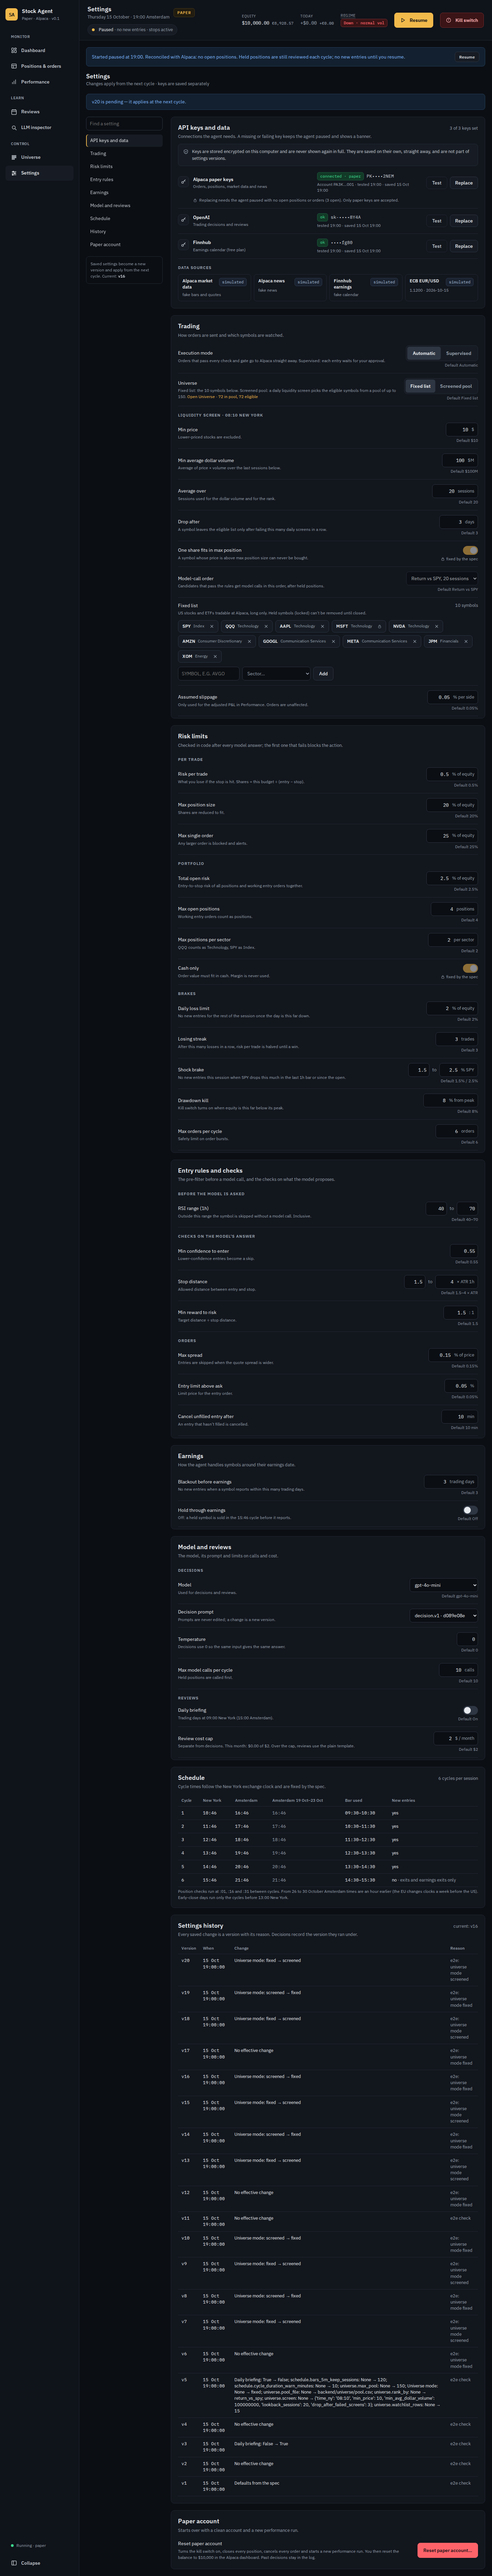
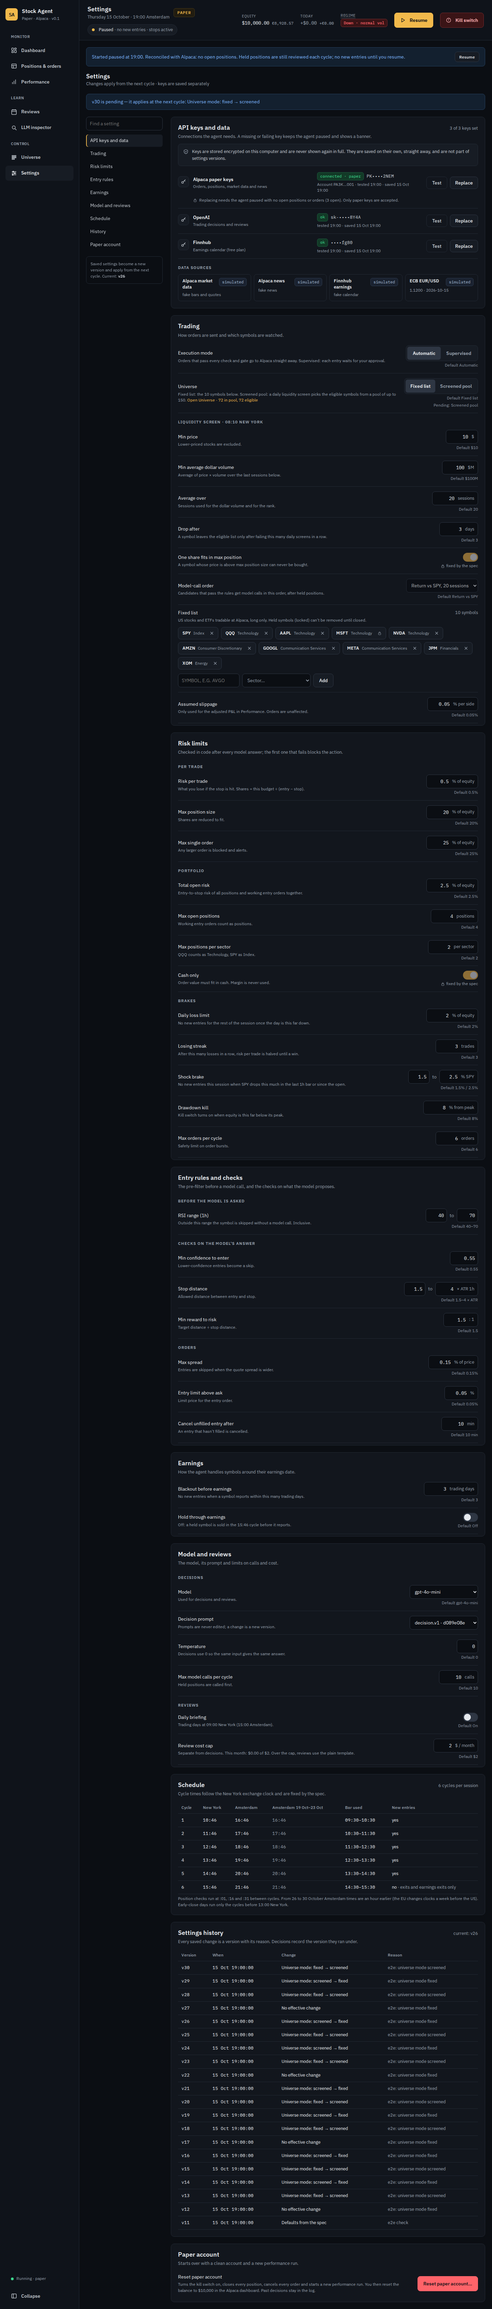
Mark saved-but-pending settings values per row
The Settings form correctly shows the active values — a save is a pending
version until the next cycle promotes it — but a pending change left the
field showing only the old value, so a saved "Screened pool" looked lost.
GET /api/settings now also returns `pending` (leaf path → pending value)
and `pending_change` (the version diff summary); each affected row gets a
"Pending: <value>" marker and the pending banner names the changes.

Generated with [Devin](https://devin.ai)

diff --git a/frontend/src/pages/Settings.tsx b/frontend/src/pages/Settings.tsx
@@ -26,7 +26,7 @@ import { Banner } from '../components/Banner';
 import { Button } from '../components/Button';
 import { ResetAccountDialog } from '../components/SettingsDialogs';
 import { displayDateTime, displayDayTime, displayTime } from '../format';
-import { diffMap, diffSettings } from './settingsDiff';
+import { diffMap, diffSettings, fmtPath } from './settingsDiff';
 import { validateForm } from './settingsValidation';
 
 // ---------------------------------------------------------------------------
@@ -314,6 +314,7 @@ function Row({
   error,
   locked,
   defaultText,
+  pendingText,
   onReset,
   children,
 }: {
@@ -325,6 +326,7 @@ function Row({
   error?: string;
   locked?: boolean;
   defaultText?: string;
+  pendingText?: string;
   onReset?: () => void;
   children: ReactNode;
 }) {
@@ -359,6 +361,14 @@ function Row({
           defaultText !== undefined && (
             <span style={{ fontSize: 'var(--sa-text-sm)', color: 'var(--sa-text-faint)' }}>Default {defaultText}</span>
           )
+        )}
+        {pendingText !== undefined && (
+          <span
+            title="Saved in the pending version — applies at the next cycle"
+            style={{ fontSize: 'var(--sa-text-sm)', color: 'var(--sa-text-faint)' }}
+          >
+            Pending: {pendingText}
+          </span>
         )}
       </div>
     </div>
@@ -817,6 +827,20 @@ export default function Settings() {
   useLiveUpdates(['header', 'universe'], refresh);
   useLiveUpdates(['settings', 'banners'], refreshKeys);
 
+  const pendingMap = data?.pending ?? {};
+  const pendingText = (path: string): string | undefined =>
+    path in pendingMap ? fmtPath(path, pendingMap[path]) : undefined;
+  const pendingJoined = (
+    paths: string[],
+    join: string,
+    fmt?: (value: unknown) => string,
+  ): string | undefined => {
+    const vals = paths
+      .filter((p) => p in pendingMap)
+      .map((p) => (fmt ? fmt(pendingMap[p]) : String(pendingMap[p])));
+    return vals.length ? vals.join(join) : undefined;
+  };
+
   const diffs = useMemo(
     () => (data && form ? diffSettings(data.settings, form) : []),
     [data, form],
@@ -1026,6 +1050,7 @@ export default function Settings() {
       changedFrom={changed[path] ? `${changed[path]}${suffix(path)}` : undefined}
       error={fieldErrors[path]}
       locked={props.locked}
+      pendingText={pendingText(path)}
       defaultText={props.defaultText ?? (path in DEFAULTS ? DEFAULTS[path] : undefined)}
       onReset={() => {
         const parts = path.split('.');
@@ -1053,7 +1078,10 @@ export default function Settings() {
       {errors.length > 0 && <Banner variant="negative">{errors.join(' ')}</Banner>}
       {notice && <Banner variant="info">{notice}</Banner>}
       {data.pending_version !== null && (
-        <Banner variant="info">v{data.pending_version} is pending — it applies at the next cycle.</Banner>
+        <Banner variant="info">
+          v{data.pending_version} is pending — it applies at the next cycle
+          {data.pending_change ? `: ${data.pending_change}` : '.'}
+        </Banner>
       )}
 
       {/* Phone width: the section list becomes a horizontal scroll row. */}
@@ -1157,6 +1185,7 @@ export default function Settings() {
               changed={'execution.mode' in changed}
               changedFrom={changed['execution.mode'] ? String(changed['execution.mode']) : undefined}
               defaultText={DEFAULTS['execution.mode']}
+              pendingText={pendingText('execution.mode')}
               onReset={() => reset('execution', 'mode')}
             >
               <div role="radiogroup" aria-label="Execution mode" style={{ display: 'inline-flex', padding: 3, background: 'var(--sa-raised)', border: '1px solid var(--sa-border)', borderRadius: 'var(--sa-radius-md)' }}>
@@ -1203,6 +1232,7 @@ export default function Settings() {
               changed={'universe.mode' in changed}
               changedFrom={changed['universe.mode'] ? String(changed['universe.mode']) : undefined}
               defaultText={DEFAULTS['universe.mode']}
+              pendingText={pendingText('universe.mode')}
               onReset={() => reset('universe', 'mode')}
             >
               <div role="radiogroup" aria-label="Universe" style={{ display: 'inline-flex', padding: 3, background: 'var(--sa-raised)', border: '1px solid var(--sa-border)', borderRadius: 'var(--sa-radius-md)' }}>
@@ -1337,6 +1367,11 @@ export default function Settings() {
                 </span>
                 <span style={{ display: 'flex', flexDirection: 'column', alignItems: 'flex-end', gap: 4 }}>
                   <span style={{ fontSize: 'var(--sa-text-md)', color: 'var(--sa-text-muted)' }}>{s.universe.symbols.length} symbols</span>
+                  {'universe.symbols' in pendingMap || Object.keys(pendingMap).some((p) => p.startsWith('universe.sector.')) ? (
+                    <span style={{ fontSize: 'var(--sa-text-sm)', color: 'var(--sa-text-faint)' }}>
+                      Pending: list change saved
+                    </span>
+                  ) : null}
                   {'universe.symbols' in changed || Object.keys(changed).some((p) => p.startsWith('universe.sector.')) ? (
                     <span style={{ fontSize: 'var(--sa-text-sm)', color: 'var(--sa-accent)' }}>
                       Changed from {data.settings.universe.symbols.length} symbols ·{' '}
@@ -1523,6 +1558,11 @@ export default function Settings() {
               changedFrom={`${data.settings.risk.shock_brake_1h_pct}% / ${data.settings.risk.shock_brake_session_pct}%`}
               error={fieldErrors['risk.shock_brake_1h_pct'] ?? fieldErrors['risk.shock_brake_session_pct']}
               defaultText="1.5% / 2.5%"
+              pendingText={pendingJoined(
+                ['risk.shock_brake_1h_pct', 'risk.shock_brake_session_pct'],
+                ' / ',
+                (v) => `${v}%`,
+              )}
               onReset={() => {
                 reset('risk', 'shock_brake_1h_pct');
                 reset('risk', 'shock_brake_session_pct');
@@ -1570,6 +1610,7 @@ export default function Settings() {
               changedFrom={`${data.settings.rules.rsi_min}–${data.settings.rules.rsi_max}`}
               error={fieldErrors['rules.rsi_min']}
               defaultText="40–70"
+              pendingText={pendingJoined(['rules.rsi_min', 'rules.rsi_max'], '–')}
               onReset={() => {
                 reset('rules', 'rsi_min');
                 reset('rules', 'rsi_max');
@@ -1598,6 +1639,10 @@ export default function Settings() {
               changedFrom={`${data.settings.decision.stop_atr_min}–${data.settings.decision.stop_atr_max}`}
               error={fieldErrors['decision.stop_atr_min']}
               defaultText="1.5–4 × ATR"
+              pendingText={pendingJoined(
+                ['decision.stop_atr_min', 'decision.stop_atr_max'],
+                '–',
+              )}
               onReset={() => {
                 reset('decision', 'stop_atr_min');
                 reset('decision', 'stop_atr_max');

diff --git a/frontend/e2e/universe.e2e.ts b/frontend/e2e/universe.e2e.ts
@@ -108,6 +108,12 @@ test('settings: universe mode and liquidity screen rows', async ({
   await expect(
     page.getByRole('radio', { name: 'Screened pool' })
   ).toBeVisible();
+  // The saved-but-pending switch stays visible: active value in the control,
+  // pending value marked next to it and summarised in the banner.
+  await expect(page.getByText('Pending: Screened pool')).toBeVisible();
+  await expect(
+    page.getByText(/is pending — it applies at the next cycle: Universe mode/)
+  ).toBeVisible();
   await expect(page.getByText('Liquidity screen ·')).toBeVisible();
   await expect(page.getByLabel('Min price', { exact: true })).toBeVisible();
   await expect(page.getByLabel('Min average dollar volume')).toBeVisible();

diff --git a/frontend/src/types/api.ts b/frontend/src/types/api.ts
@@ -604,6 +604,13 @@ export interface SettingsResponse {
   settings: SettingsForm;
   active_version: number;
   pending_version: number | null;
+  /** Saved-but-not-yet-active leaf values, e.g. {'universe.mode': 'screened'}.
+   * The form shows the active values; these mark which rows have a pending
+   * change waiting for the next cycle. */
+  pending?: Record<string, unknown>;
+  /** Human-readable diff of pending vs active, e.g. 'Universe mode: fixed →
+   * screened'. */
+  pending_change?: string | null;
   next_version: number;
   held_symbols: string[];
   prompt_options: { version: string; hash: string }[];

diff --git a/frontend/src/pages/settingsDiff.ts b/frontend/src/pages/settingsDiff.ts
@@ -54,7 +54,7 @@ function fmtVal(value: unknown): string {
 }
 
 /** Display value for a leaf path — money fields show units. */
-function fmtPath(path: string, value: unknown): string {
+export function fmtPath(path: string, value: unknown): string {
   if (path === 'universe.screen.min_avg_dollar_volume') {
     const n = Number(value);
     return Number.isNaN(n) ? String(value) : `$${n / 1_000_000}M`;

diff --git a/backend/tests/test_pr6.py b/backend/tests/test_pr6.py
@@ -1109,6 +1109,46 @@ def test_settings_get_and_save_flow(client: TestClient) -> None:
         session.commit()
 
 
+def test_settings_response_marks_pending_values(client: TestClient) -> None:
+    """A saved-but-not-yet-active change stays visible: the form still shows
+    the active value while ``pending`` / ``pending_change`` say what the next
+    cycle will use — a save must not look lost."""
+    saved = client.post(
+        "/api/settings",
+        json={
+            "settings": {
+                "universe": {"mode": "screened"},
+                "risk": {"risk_per_trade_pct": 0.4},
+            },
+            "reason": "pending markers",
+        },
+    )
+    assert saved.status_code == 200
+
+    body = client.get("/api/settings").json()
+    assert body["pending_version"] == saved.json()["version"]
+    # The form shows the active values — pending is marked separately.
+    assert body["settings"]["universe"]["mode"] == "fixed"
+    assert body["settings"]["risk"]["risk_per_trade_pct"] == 0.5
+    assert body["pending"]["universe.mode"] == "screened"
+    assert body["pending"]["risk.risk_per_trade_pct"] == 0.4
+    assert "Universe mode" in body["pending_change"]
+    assert "Risk per trade" in body["pending_change"]
+
+    # Same cleanup as test_settings_get_and_save_flow — no leaks.
+    from app.config import get_config
+    from app.db.base import get_session_maker
+    from app.db.models import SettingsVersion
+
+    config = get_config()
+    config._pending = None
+    config.pending_version = None
+    config.reschedule_cycles = False
+    with get_session_maker()() as session:
+        session.query(SettingsVersion).delete()
+        session.commit()
+
+
 def test_reject_approval_api(client: TestClient) -> None:
     """Reject resolves a pending approval; outcome shows on the decision."""
     from app.db.base import get_session_maker

diff --git a/backend/app/settings_service.py b/backend/app/settings_service.py
@@ -525,6 +525,44 @@ def version_change_summary(
     return "; ".join(parts) or "No effective change"
 
 
+def pending_change_map(
+    active: dict[str, Any], pending: dict[str, Any]
+) -> dict[str, Any]:
+    """Leaf paths where the pending version differs from the active tree.
+
+    Returns ``{path: pending value}`` so the Settings form can mark each
+    saved-but-not-yet-active field ("Pending: Screened pool") — without it a
+    save looks lost because the form shows the active values until the next
+    cycle promotes the version.
+    """
+    out: dict[str, Any] = {}
+    for section in sorted(set(active) | set(pending)):
+        a = active.get(section) or {}
+        p = pending.get(section) or {}
+        if not isinstance(a, dict) or not isinstance(p, dict):
+            if a != p:
+                out[section] = p
+            continue
+        for key in sorted(set(a) | set(p)):
+            if key == "allowed_sectors":
+                continue
+            av, pv = a.get(key), p.get(key)
+            if av == pv:
+                continue
+            if isinstance(av, dict) and isinstance(pv, dict):
+                prefix = (
+                    "universe.sector"
+                    if (section, key) == ("universe", "sectors")
+                    else f"{section}.{key}"
+                )
+                for sub in sorted(set(av) | set(pv)):
+                    if av.get(sub) != pv.get(sub):
+                        out[f"{prefix}.{sub}"] = pv.get(sub)
+                continue
+            out[f"{section}.{key}"] = pv
+    return out
+
+
 # ----------------------------------------------------------------------
 # schedule + connections payloads
 

diff --git a/backend/app/api/routes.py b/backend/app/api/routes.py
@@ -60,6 +60,7 @@ from app.settings_service import (
     SettingsError,
     _deep_merge,
     _nested_get,
+    pending_change_map,
     save_version,
     schedule_table,
     validate_settings,
@@ -1836,10 +1837,18 @@ def settings(request: Request) -> dict[str, object]:
                 "reason": row.reason,
             }
         )
+    pending_tree = config.pending()
+    active_tree = config.effective()
     return {
         "settings": _settings_form(config),
         "active_version": config.active_version,
         "pending_version": config.pending_version,
+        "pending": pending_change_map(active_tree, pending_tree)
+        if pending_tree is not None
+        else {},
+        "pending_change": version_change_summary(active_tree, pending_tree)
+        if pending_tree is not None
+        else None,
         "next_version": (rows[0].version + 1) if rows else 1,
         "held_symbols": sorted(_held_symbols()),
         "prompt_options": _prompt_options(),
